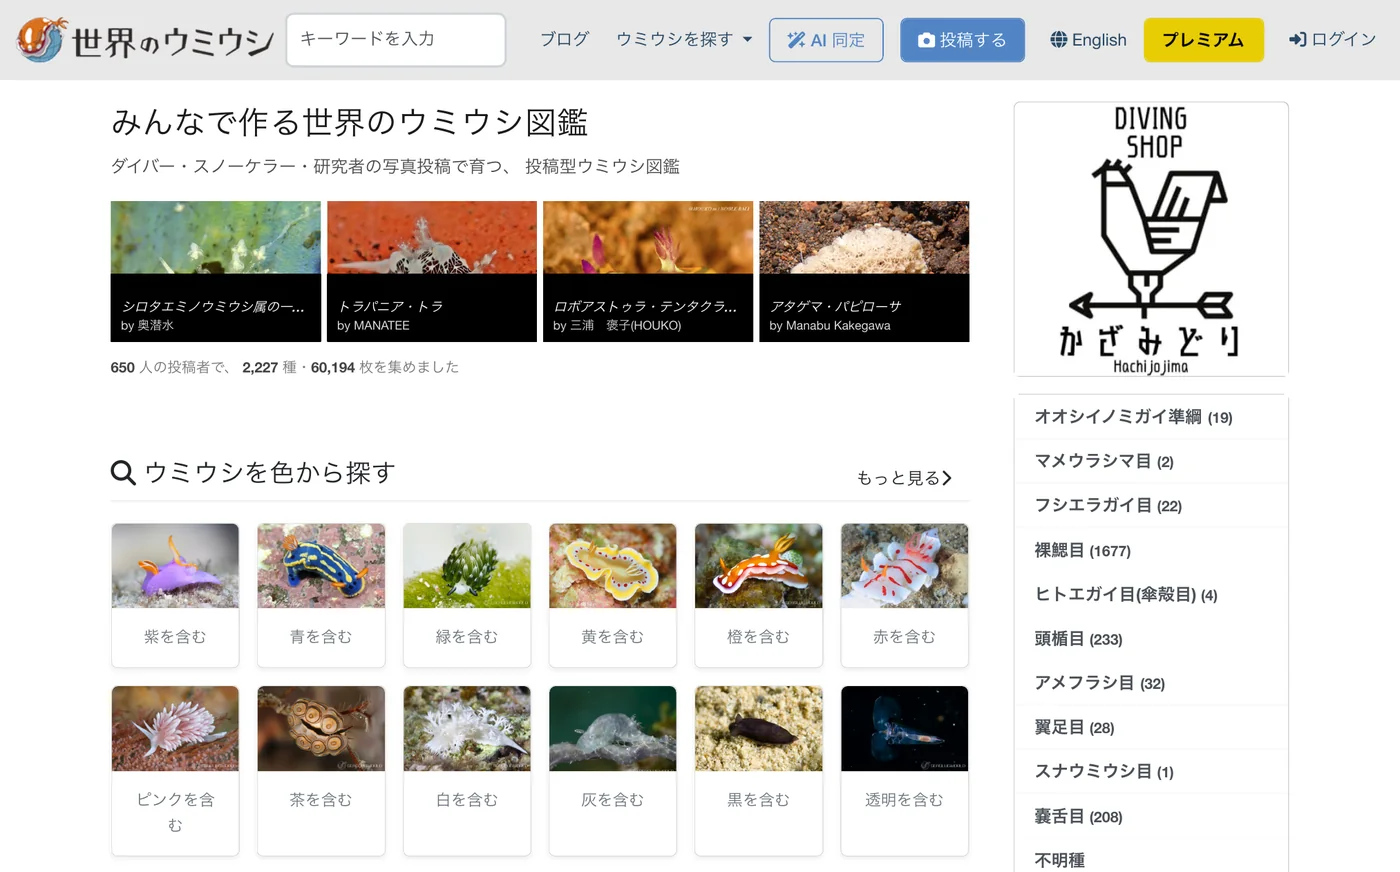
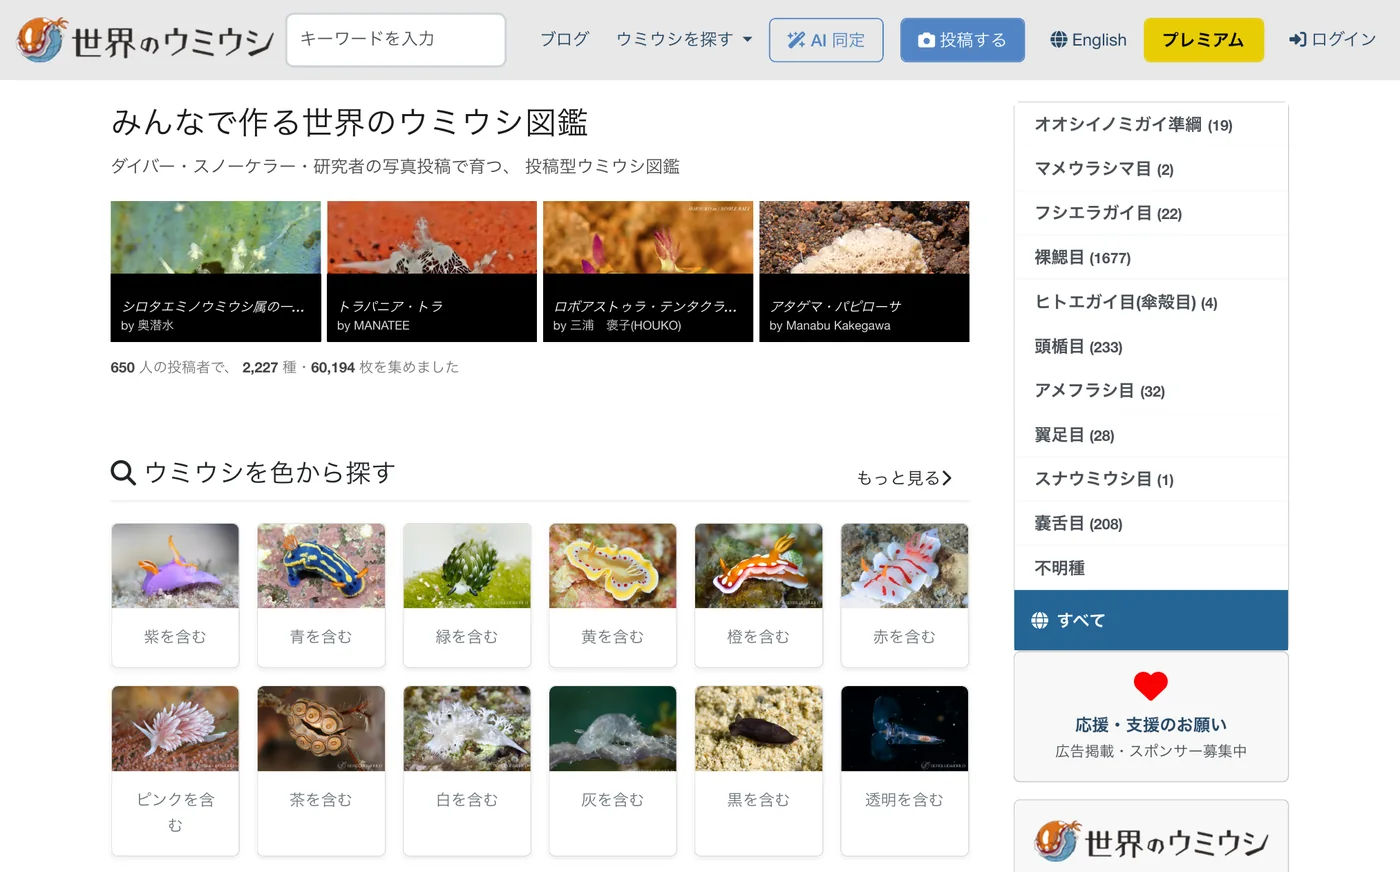
トップ(日本語)の案: 世界のウミウシの絵を、スポンサーの出ていない画面に撮り直したものに替える

Changed region(s): [[0.7064, 0.1239, 0.9214, 0.8979], [0.7371, 0.9289, 0.9214, 1.0]]

diff --git a/index.html b/index.html
@@ -42,7 +42,7 @@
 <link rel="stylesheet" href="https://fonts.googleapis.com/css2?family=EB+Garamond:ital,wght@1,500&family=Zen+Kaku+Gothic+New:wght@500;700;900&display=swap" media="print" onload="this.media='all'">
 <noscript><link rel="stylesheet" href="https://fonts.googleapis.com/css2?family=EB+Garamond:ital,wght@1,500&family=Zen+Kaku+Gothic+New:wght@500;700;900&display=swap"><style>.reveal{opacity:1;transform:none}</style></noscript>
 <link rel="stylesheet" href="./assets/site.css?v=20261110">
-<link rel="stylesheet" href="./assets/lab.css?v=20261118x3">
+<link rel="stylesheet" href="./assets/lab.css?v=20261118x4">
 </head>
 <body>
 <header class="nav">
